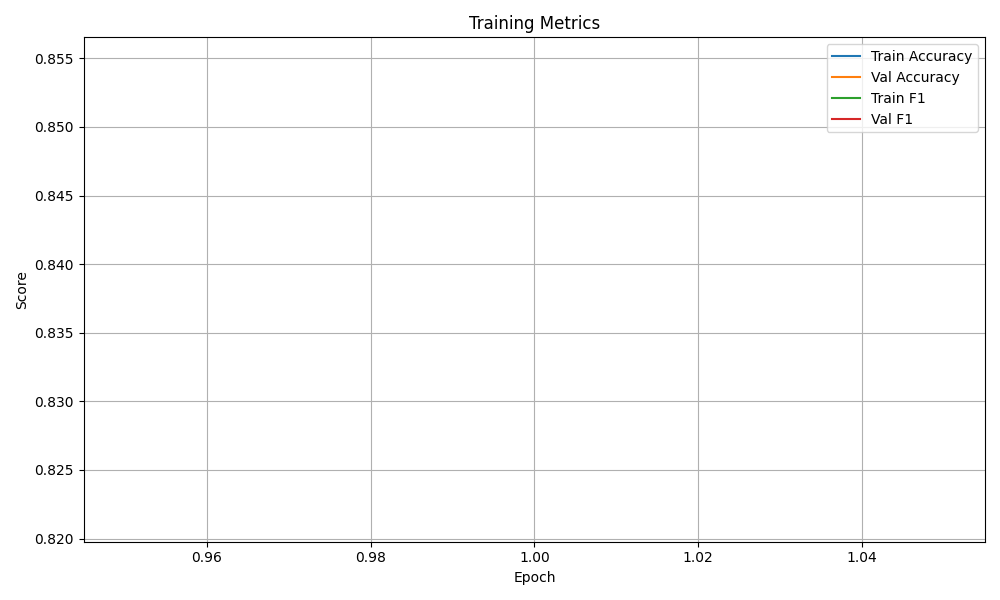
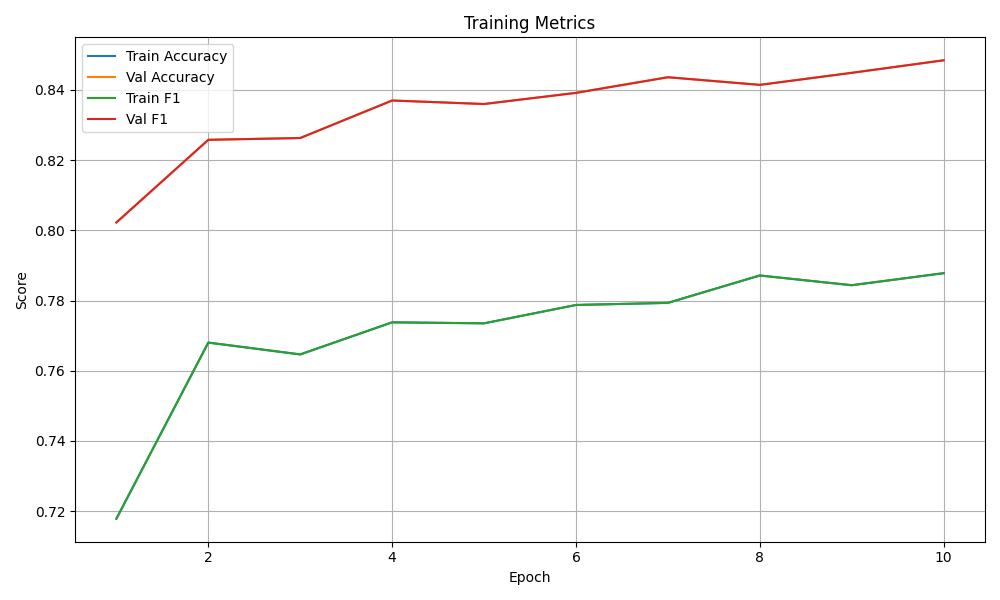
feat: update auto model

diff --git a/main.py b/main.py
@@ -17,7 +17,7 @@ SEED = 42
 EPOCHS = 10
 BATCH_SIZE = 128
 NUM_WORKERS = 20
-CSV_PATH="Datasets/IMDB_Dataset.csv"
+CSV_PATH = "Datasets/IMDB_Dataset.csv"
 OUTPUT_DIR = "logs"
 
 def main():
@@ -31,19 +31,18 @@ def main():
     # === Load and prepare data ===
     texts, labels, tokenizer, label2id, id2label = load_data(CSV_PATH)
     dataset = BERTTextDataset(texts, labels, tokenizer, label2id)
-    train_loader, val_loader, test_loader= split_dataset(dataset, batch_size=BATCH_SIZE, num_workers=NUM_WORKERS)
+    train_loader, val_loader, test_loader = split_dataset(dataset, batch_size=BATCH_SIZE, num_workers=NUM_WORKERS)
 
     # === Initialize classifier ===
-    print(f"num_labels:{len(label2id)}")
     classifier = SentimentClassifier(num_labels=len(label2id))
     if torch.cuda.device_count() > 1:
         classifier = torch.nn.DataParallel(classifier, device_ids=[0, 1, 2, 3, 4, 5, 6, 8])
     classifier = classifier.to(device)
 
     optimizer = torch.optim.Adam(classifier.parameters(), lr=1e-2)
-    # scheduler = lr_scheduler.CosineAnnealingLR(
-    #     optimizer, T_max=EPOCHS, eta_min=1e-3
-    # )
+    scheduler = lr_scheduler.CosineAnnealingLR(
+        optimizer, T_max=EPOCHS, eta_min=1e-3
+    )
     loss_fn = torch.nn.CrossEntropyLoss()
     log_path = os.path.join(OUTPUT_DIR, "metrics_log.csv")
 
@@ -62,7 +61,7 @@ def main():
         print(f"Train Loss: {train_loss:.4f} | Acc: {train_acc:.4f} | F1: {train_f1:.4f}")
         print(f"Val   Loss: {val_loss:.4f} | Acc: {val_acc:.4f} | F1: {val_f1:.4f}")
 
-        # scheduler.step()
+        scheduler.step()
 
         with open(log_path, "a", newline="") as f:
             writer = csv.writer(f)
@@ -98,8 +97,8 @@ def main():
     plt.savefig(f"{OUTPUT_DIR}/plots/metric_curves.png")
 
     #=== Run test evaluation using the last saved model ===
-    # latest_ckpt = f"{OUTPUT_DIR}/checkpoints/classifier_epoch_{EPOCHS}.pt"
-    # test_model(model_path=latest_ckpt, batch_size=BATCH_SIZE, device=device)
+    latest_ckpt = f"{OUTPUT_DIR}/checkpoints/classifier_epoch_{EPOCHS}.pt"
+    test_model(model_path=latest_ckpt, batch_size=BATCH_SIZE, device=device)
 
 if __name__ == "__main__":
     main()

diff --git a/A/model.py b/A/model.py
@@ -2,13 +2,13 @@ import torch
 import torch.nn as nn
 from transformers import AutoModelForSequenceClassification
 
-
 class SentimentClassifier(nn.Module):
     """
-    Sentiment classifier using a frozen or partially fine-tuned BERT + 1 FC layer.
+    Sentiment classification model using a frozen BERT encoder.
+    The [CLS] token output is passed through a dropout and linear layer.
     """
-    def __init__(self, num_labels):
-        super().__init__()
+    def __init__(self, num_labels: int, dropout_prob: float = 0.3):
+        super(SentimentClassifier, self).__init__()
         self.bert = AutoModelForSequenceClassification.from_pretrained("bert-base-uncased", num_labels=num_labels) 
         # Freeze all layers
         for param in self.bert.parameters():
@@ -16,16 +16,16 @@ class SentimentClassifier(nn.Module):
 
         for param in self.bert.classifier.parameters(): 
             param.requires_grad = True 
-        
-        # # Unfreeze only the last encoder layer (layer 11)
-        # for name, param in self.bert.named_parameters():
-        #     if "encoder.layer.11" in name:
-        #         param.requires_grad = True
 
-    def  forward ( self, input_ids, attention_mask ):
-        output = self.bert(input_ids=input_ids, attention_mask=attention_mask) 
-        logits = output.logits
+    def forward(self, input_ids, attention_mask, token_type_ids):
+        outputs = self.bert(
+            input_ids=input_ids,
+            attention_mask=attention_mask,
+            token_type_ids=token_type_ids
+        )
+        logits = outputs.logits
         return logits
+
 
 class SentimentMLPClassifier(nn.Module):
     """

diff --git a/A/training.py b/A/training.py
@@ -34,11 +34,11 @@ def train_one_epoch(classifier, dataloader, optimizer, loss_fn, device, training
         token_type_ids = token_type_ids.to(device)
         labels = labels.to(device)
 
-        out = classifier(input_ids, attention_mask)
+        out = classifier(input_ids, attention_mask, token_type_ids)
         loss = loss_fn(out, labels)
 
         optimizer.zero_grad()
-        # loss.backward()
+        loss.backward()
         optimizer.step()
 
         total_loss += loss.item()
